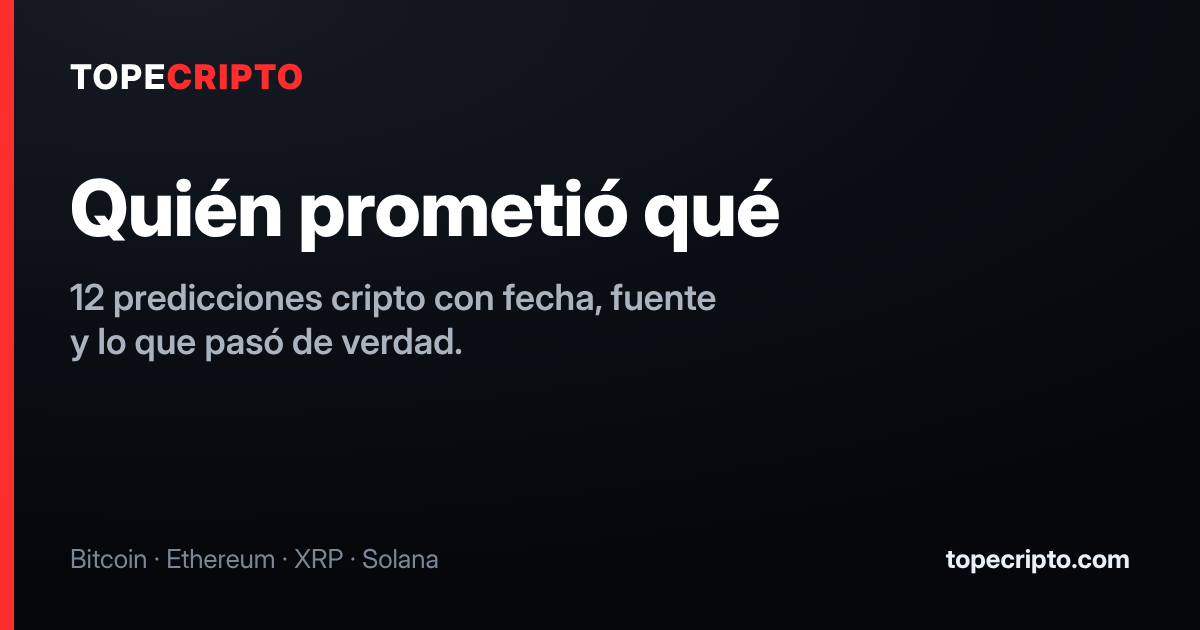
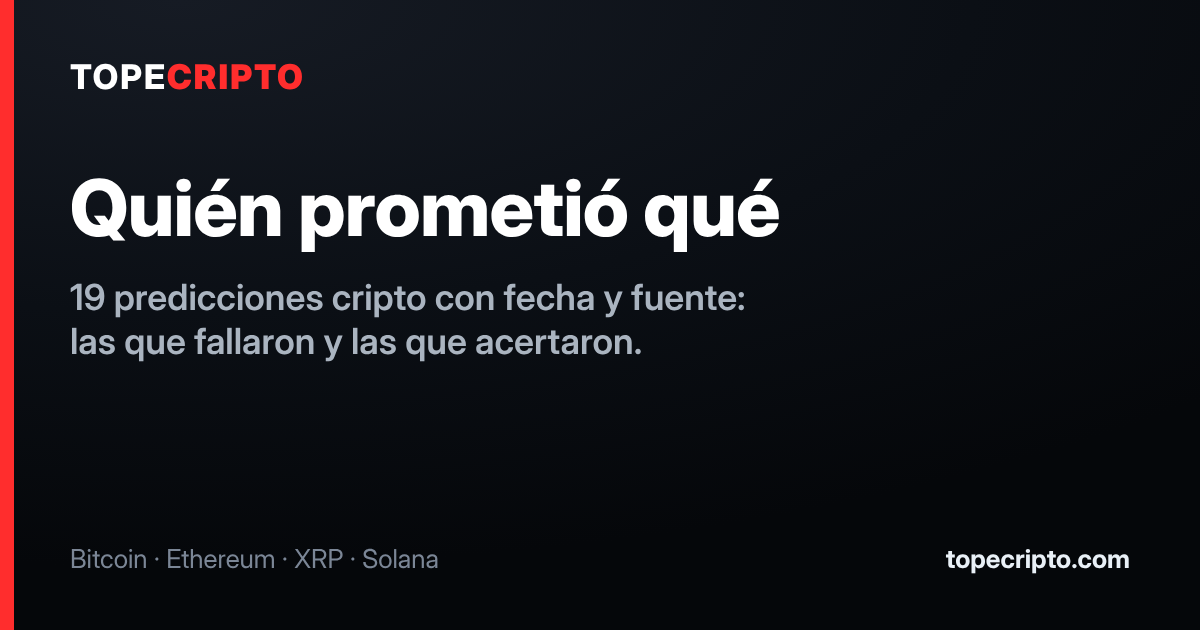
Siete promesas nuevas, también las que acertaron
- Cumplidas: Bernstein (BTC 90.000 $ 2024), Standard Chartered (BTC 100.000 $ 2024),
  Tim Draper (BTC 10.000 $ en tres años, 2014-2017).
- Fallidas: Bernstein (BTC 200.000 $ 2025), Tim Draper (BTC 120.000 $ 2024).
- En curso: CryptoBull (XRP 27 $ octubre 2026), Standard Chartered (BTC 300.000 $ 2026).
- Contador de fallidas / cumplidas / en curso arriba de Promesas.
- Imágenes al compartir de los casos nuevos; descripción de /promesas con el recuento.

Claude-Session: https://claude.ai/code/session_012yv3bNkRyDFAeSH1yoedVB

Changed region(s): [[0.0617, 0.4524, 0.6167, 0.573]]

diff --git a/src/promesas.js b/src/promesas.js
@@ -14,12 +14,21 @@
 //   src/sn  → enlace a la fuente y nombre del medio
 //   src2/sn2 → (opcional) segunda fuente
 //
-// Orden: primero las fallidas (de la más reciente a la más antigua), luego las que siguen en curso.
+// Orden: fallidas, cumplidas y en curso; dentro de cada grupo, de la más reciente a la más antigua.
+// Cuando vence una EN CURSO: cambia st, quita target, escribe p con lo que pasó y actualiza res.
 
 export const ST_COLOR = { FALLIDA: "#ff2d2d", "EN CURSO": "#ffb02e", CUMPLIDA: "#35c759" };
 
 export const CASES = [
   // ---------- FALLIDAS ----------
+  {
+    id: "bernstein-bitcoin-200000-2025",
+    who: "Bernstein", coin: "BTC", claim: "200.000 $ a finales de 2025", st: "FALLIDA",
+    p: "Subió su objetivo desde 150.000 $ en junio de 2024. Bitcoin cerró 2025 en unos 88.000 $.",
+    res: "Bitcoin cerró 2025 en unos 88.000 $",
+    src: "https://www.theblock.co/post/300138/bernstein-bitcoin-price-target-2025", sn: "The Block",
+    src2: "https://bitcoinmagazine.com/featured/bitcoin-limps-into-new-year-at-87000", sn2: "Bitcoin Magazine",
+  },
   {
     id: "sc-bitcoin-200000-2025",
     who: "Standard Chartered", coin: "BTC", claim: "200.000 $ a finales de 2025", st: "FALLIDA",
@@ -68,6 +77,14 @@ export const CASES = [
     src2: "https://cryptoticker.io/en/crypto-recap-2025/", sn2: "CryptoTicker",
   },
   {
+    id: "draper-bitcoin-120000-2024",
+    who: "Tim Draper", coin: "BTC", claim: "120.000 $ a finales de 2024", st: "FALLIDA",
+    p: "Lo dijo en noviembre de 2024. El máximo de Bitcoin en 2024 fue de unos 108.000 $, el 17 de diciembre, y cerró el año en unos 93.400 $.",
+    res: "Bitcoin cerró 2024 en unos 93.400 $",
+    src: "https://www.benzinga.com/markets/cryptocurrency/24/11/42198722/exclusive-tim-draper-predicts-bitcoin-to-reach-120k-by-end-of-2024-250k-in-2025", sn: "Benzinga",
+    src2: "https://dqydj.com/2024-bitcoin-return/", sn2: "DQYDJ",
+  },
+  {
     id: "draper-bitcoin-250000",
     who: "Tim Draper", coin: "BTC", claim: "250.000 $ a finales de 2022", st: "FALLIDA",
     p: "Lo dijo en abril de 2018. Bitcoin cerró 2022 alrededor de 16.500 $, tras la caída de FTX.",
@@ -98,7 +115,46 @@ export const CASES = [
     src2: "https://www.bloomberg.com/news/articles/2020-03-31/bitcoin-s-march-plunge-is-worst-since-the-crypto-bubble-burst", sn2: "Bloomberg",
   },
 
+  // ---------- CUMPLIDAS ----------
+  {
+    id: "bernstein-bitcoin-90000-2024",
+    who: "Bernstein", coin: "BTC", claim: "90.000 $ a finales de 2024", st: "CUMPLIDA",
+    p: "Subió su objetivo desde 80.000 $ en marzo de 2024. Bitcoin cerró 2024 en unos 93.400 $.",
+    res: "Bitcoin cerró 2024 en unos 93.400 $",
+    src: "https://cryptodaily.co.uk/2024/03/bernstein-analysts-predict-bitcoin-could-hit-90000-by-year-end", sn: "CryptoDaily",
+    src2: "https://dqydj.com/2024-bitcoin-return/", sn2: "DQYDJ",
+  },
+  {
+    id: "sc-bitcoin-100000-2024",
+    who: "Standard Chartered", coin: "BTC", claim: "100.000 $ a finales de 2024", st: "CUMPLIDA",
+    p: "Lo dijo Geoff Kendrick en abril de 2023, con Bitcoin en unos 27.600 $. Superó los 100.000 $ el 5 de diciembre de 2024 y llegó a unos 108.000 $, aunque cerró el año en unos 93.400 $.",
+    res: "Superó los 100.000 $ el 5 de diciembre de 2024",
+    src: "https://www.cnbc.com/2023/04/24/bitcoin-btc-price-could-hit-100000-by-end-2024-standard-chartered.html", sn: "CNBC",
+    src2: "https://dqydj.com/2024-bitcoin-return/", sn2: "DQYDJ",
+  },
+  {
+    id: "draper-bitcoin-10000-2017",
+    who: "Tim Draper", coin: "BTC", claim: "10.000 $ en tres años", st: "CUMPLIDA",
+    p: "Lo dijo en septiembre de 2014, con Bitcoin en unos 413 $. Llegó a 10.000 $ en noviembre de 2017.",
+    res: "Llegó a 10.000 $ en noviembre de 2017",
+    src: "https://benzinga.com/z/22739640", sn: "Benzinga",
+  },
+
   // ---------- EN CURSO ----------
+  {
+    id: "cryptobull-xrp-27-2026",
+    who: "CryptoBull", coin: "XRP", claim: "27 $ a finales de octubre de 2026", st: "EN CURSO", target: 27,
+    extra: "Lo dijo en agosto de 2026 este analista con cerca de un millón de seguidores en X, con XRP en unos 1,03 $. Vence el 31 de octubre de 2026.",
+    res: "Vence el 31 de octubre de 2026",
+    src: "https://finance.yahoo.com/markets/crypto/articles/xrp-price-prediction-analyst-says-125742956.html", sn: "Yahoo Finance",
+  },
+  {
+    id: "sc-bitcoin-300000-2026",
+    who: "Standard Chartered", coin: "BTC", claim: "300.000 $ a finales de 2026", st: "EN CURSO", target: 300000,
+    extra: "El propio banco lo rebajó a 150.000 $ en diciembre de 2025 y a 100.000 $ en febrero de 2026.",
+    res: "El banco ya lo rebajó dos veces: ahora 100.000 $",
+    src: "https://www.theblock.co/post/389609/standard-chartered-bitcoin-50000-ether-1400-rebound", sn: "The Block",
+  },
   {
     id: "sc-xrp-8-2026",
     who: "Standard Chartered", coin: "XRP", claim: "8 $ a finales de 2026", st: "EN CURSO", target: 8,

diff --git a/src/App.jsx b/src/App.jsx
@@ -353,7 +353,12 @@ function Promises({ coins, total, focus }) {
 
   return (
     <section className="stack">
-      <div><h2 className="sec">Quién prometió qué</h2><p className="lead">Predicciones públicas, con fecha, y lo que pasó de verdad.</p></div>
+      <div><h2 className="sec">Quién prometió qué</h2><p className="lead">Predicciones públicas, con fecha, y lo que pasó de verdad. Las que fallaron y las que acertaron.</p></div>
+      <div className="tally">
+        {["FALLIDA", "CUMPLIDA", "EN CURSO"].map((s) => (
+          <span key={s}><b style={{ color: ST_COLOR[s] }}>{CASES.filter((k) => k.st === s).length}</b> {s === "FALLIDA" ? "fallidas" : s === "CUMPLIDA" ? "cumplidas" : "en curso"}</span>
+        ))}
+      </div>
       {CASES.map((k) => {
         let p = k.p;
         if (k.target) {
@@ -518,6 +523,8 @@ details ol{margin:10px 0 0;padding-left:18px;font-size:12px;color:#8891a8;line-h
 .case p{margin:0;font-size:12px;color:#8891a8;line-height:1.45}
 .case a{color:#8891a8;font-size:10.5px}
 .case.focus{border-color:#ffd35a;box-shadow:0 0 0 1px #ffd35a33}
+.tally{display:flex;justify-content:space-between;gap:6px;background:#0b0f15;border:1px solid #1c232d;border-radius:12px;padding:10px 12px;font-size:12px;color:#8891a8}
+.tally b{font:700 20px 'Rajdhani',sans-serif;margin-right:3px}
 .cfoot{display:flex;justify-content:space-between;align-items:center;gap:8px}
 .srcs{display:flex;flex-wrap:wrap;gap:4px 10px;min-width:0}
 .clink{font:700 11px 'Chakra Petch',sans-serif;color:#ff5b5b;background:#160d0f;border:1px solid #7a2020;border-radius:8px;padding:6px 10px;cursor:pointer;flex-shrink:0}
